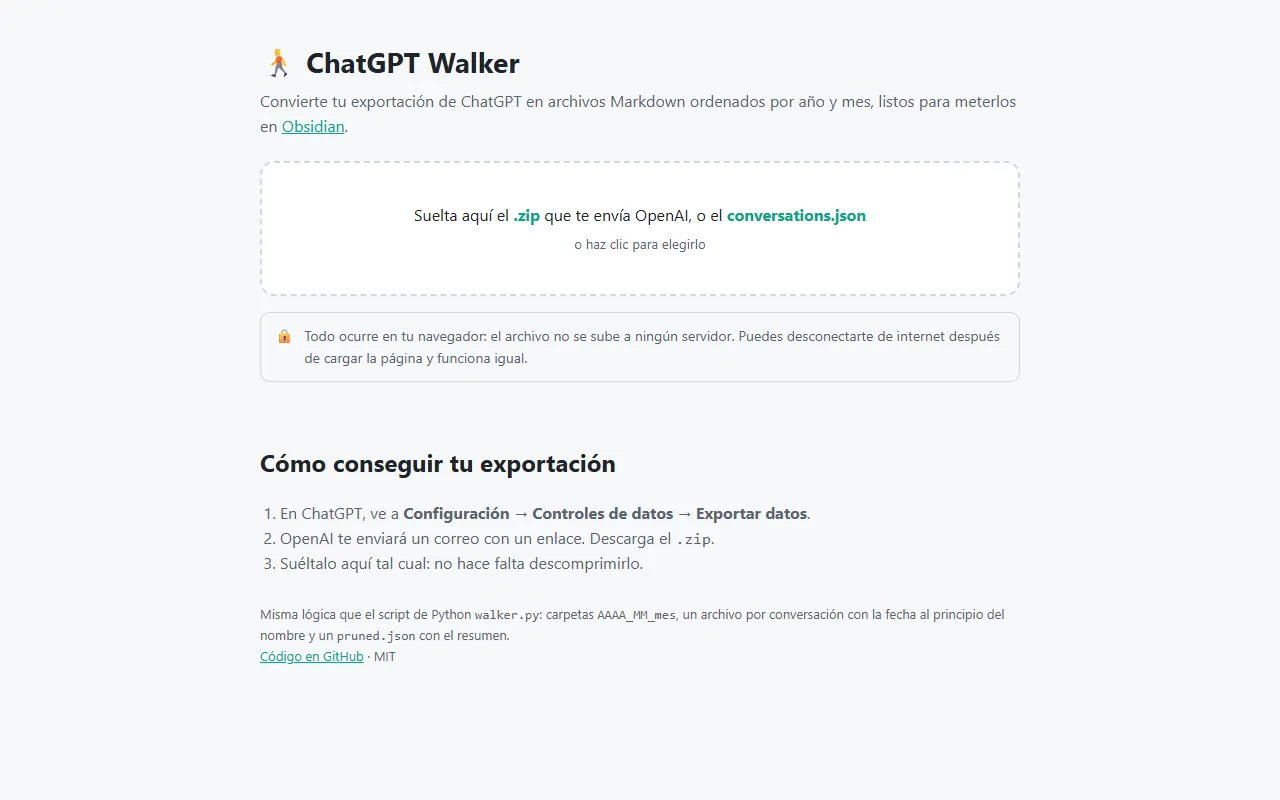
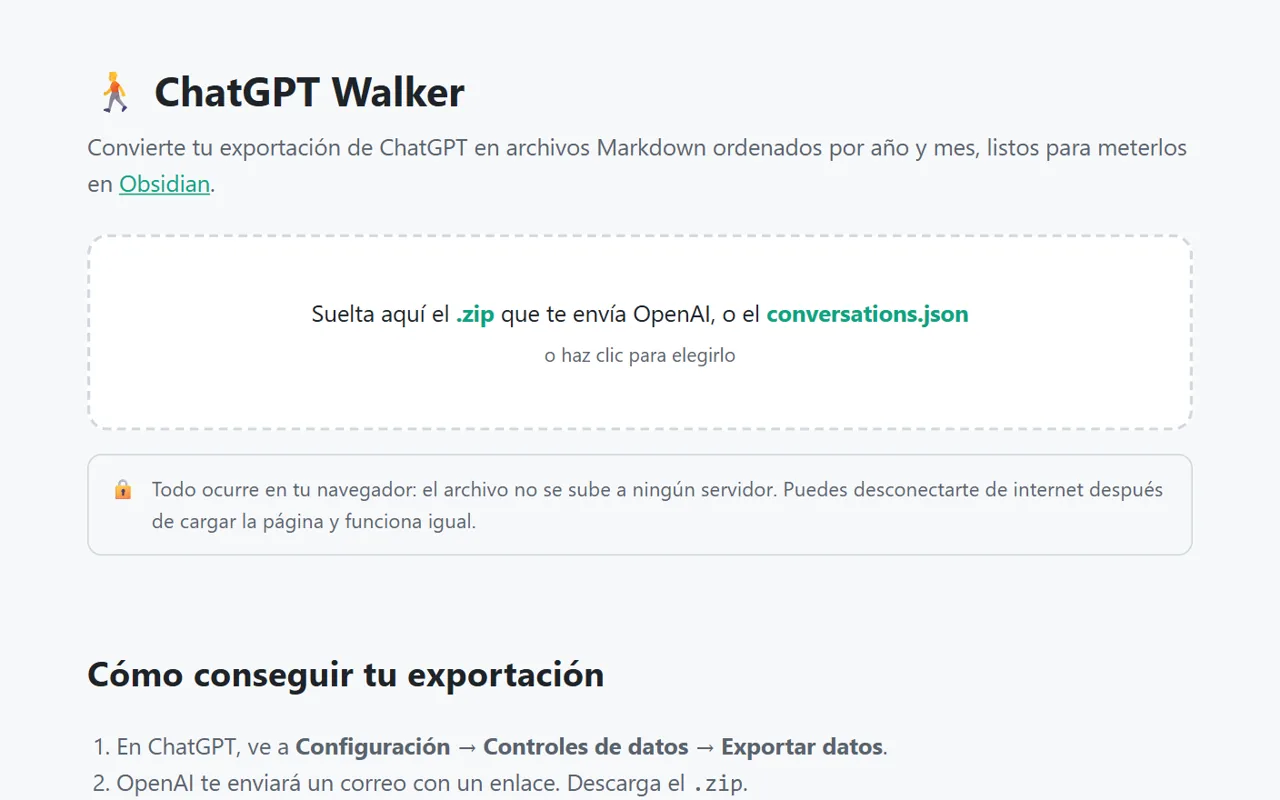
Rediseña la portada y unifica las capturas
Claude-Session: https://claude.ai/code/session_01QCYTMinSPF5p7tBa2mUJnL

diff --git a/src/style.css b/src/style.css
@@ -10,11 +10,10 @@ a:hover { color: var(--accent); }
 :focus-visible { outline: 3px solid var(--accent); outline-offset: 2px; }
 .skip { position: absolute; left: -999px; } .skip:focus { left: 12px; top: 12px; background: var(--panel); padding: 8px 12px; z-index: 9; }
 h1, h2, h3 { line-height: 1.2; letter-spacing: -.01em; margin: 0; }
-.top { border-bottom: 1px solid var(--line); background: var(--panel); }
-.top .wrap { display: flex; gap: 20px; align-items: center; padding-block: 24px; }
-.top img { border-radius: 50%; }
-.top div div { flex: 1; } .top h1 { font-size: 34px; letter-spacing: -.03em; } .top p { margin: 4px 0 0; color: var(--soft); max-width: 60ch; }
-nav { display: flex; gap: 18px; font-weight: 600; }
+.top { background: #000; color: #fff; text-align: center; }
+.top .wrap { padding-block: 18px 30px; } .top h1 img { display: block; width: min(860px, 100%); height: auto; margin: auto; } .top p { margin: 0; font-size: 19px; color: #d6d2dc; } .top .made { margin-top: 6px; font-size: 14px; color: #96909f; }
+nav { display: flex; justify-content: flex-end; flex-wrap: wrap; gap: 6px 22px; font-weight: 600; } nav a { text-decoration: none; padding: 4px 0; } .top a:hover { color: #ff9a6b; }
+.chips { display: flex; flex-wrap: wrap; gap: 8px; margin: 4px 0 16px; } .chips button { border: 1px solid var(--line); border-radius: 999px; background: var(--panel); padding: 7px 15px; cursor: pointer; } .chips span { color: var(--soft); font-variant-numeric: tabular-nums; } .chips button:hover { border-color: var(--accent); } .chips [aria-pressed=true] { background: var(--ink); border-color: var(--ink); color: var(--bg); } .chips [aria-pressed=true] span { color: inherit; opacity: .75; }
 .sum { display: grid; grid-template-columns: repeat(5, auto) minmax(280px, 1.6fr); gap: 24px; margin: 28px 0; }
 .sum dt { font-size: 14px; color: var(--soft); } .sum dd { margin: 2px 0 0; font-size: 28px; font-weight: 650; font-variant-numeric: tabular-nums; white-space: nowrap; }
 .sum .wide dd { font-size: 14px; font-weight: 400; white-space: normal; }
@@ -25,17 +24,17 @@ nav { display: flex; gap: 18px; font-weight: 600; }
 button, select, input { font: inherit; color: inherit; }
 .seg button { border: 0; background: none; padding: 7px 11px; cursor: pointer; } .seg button:focus-visible { outline-offset: -3px; }
 .seg [aria-pressed=true] { background: var(--ink); color: var(--bg); }
-select, input { background: var(--panel); border: 1px solid var(--line); border-radius: 7px; padding: 6px 10px; } input { width: 110px; } #type, #stage { width: 112px; } #order { width: 172px; }
+select, input { background: var(--panel); border: 1px solid var(--line); border-radius: 7px; padding: 6px 10px; } input { width: 150px; } #stage { width: 150px; } #order { width: 172px; }
 #count { margin-left: auto; color: var(--soft); }
 .view { padding: 24px 0 56px; } .view > h2 { font-size: 24px; margin-bottom: 16px; }
-.board { display: grid; grid-template-columns: repeat(auto-fill, minmax(270px, 1fr)); gap: 18px; }
+.board { display: grid; grid-template-columns: repeat(auto-fill, minmax(min(100%, 290px), 1fr)); gap: 18px; }
 .card time { display: block; padding-top: 10px; font-size: 13px; color: var(--soft); } .card time::first-letter { text-transform: uppercase; }
-.cover { display: flex; flex-direction: column; justify-content: center; gap: 2px; margin: 0 -14px; padding: 0 20px; aspect-ratio: 16 / 10; background: var(--line); color: var(--ink); font-size: 24px; font-weight: 650; line-height: 1.2; letter-spacing: -.02em; }
 .card { display: flex; flex-direction: column; background: var(--panel); border: 1px solid var(--line); border-radius: 8px; overflow: hidden; position: relative; padding: 0 14px 12px; transition: border-color .15s; }
 .card:hover { border-color: var(--accent); }
 .card .open { text-decoration: none; } .card .open::after { content: ""; position: absolute; inset: 0; } .card .open:focus-visible { outline: none; } .card:focus-within { outline: 3px solid var(--accent); }
-.card img { display: block; width: calc(100% + 28px); height: auto; margin: 0 -14px; aspect-ratio: 16 / 10; object-fit: cover; max-width: none; }
+.card img { display: block; width: calc(100% + 28px); height: auto; margin: 0 -14px; aspect-ratio: 16 / 9; object-fit: cover; max-width: none; background: var(--line); }
 .card h3 { font-size: 18px; padding-top: 2px; } .card p { margin: 4px 0; font-size: 14.5px; color: var(--soft); flex: 1; }
+.card .go { position: relative; z-index: 1; margin-left: auto; font-weight: 650; color: var(--accent); text-decoration: none; } .card .go:hover { text-decoration: underline; }
 .card .meta { display: flex; flex-wrap: wrap; gap: 2px 14px; font-size: 13px; flex: none; }
 .scroll { overflow-x: auto; background: var(--panel); border: 1px solid var(--line); border-radius: 8px; }
 table { border-collapse: collapse; width: 100%; font-size: 15px; } th, td { text-align: left; padding: 11px 14px; border-bottom: 1px solid var(--line); white-space: nowrap; } tbody tr:last-child > * { border: 0; }
@@ -46,15 +45,15 @@ thead button { border: 0; background: none; padding: 0; font-weight: 650; cursor
 .todo li { position: relative; padding: 5px 0 5px 28px; } .todo li::before { content: ""; position: absolute; left: 2px; top: 10px; width: 13px; height: 13px; border: 2px solid var(--soft); border-radius: 3px; }
 .todo.big li { padding-block: 10px; border-bottom: 1px solid var(--line); } .todo.big li::before { top: 15px; } .todo.big a { color: var(--soft); margin-left: 8px; }
 .log li { display: grid; grid-template-columns: 110px 1fr; gap: 12px; padding: 5px 0; font-size: 15px; } .log.big li { grid-template-columns: 120px 210px 1fr; padding: 10px 0; border-bottom: 1px solid var(--line); } .log time { color: var(--soft); } .log .msg { text-decoration: none; }
-dialog { width: min(1080px, calc(100% - 24px)); max-height: calc(100dvh - 32px); padding: 0; border: 1px solid var(--line); border-radius: 10px; background: var(--panel); color: var(--ink); } dialog::backdrop { background: rgb(10 9 14 / .6); }
+dialog { width: min(1080px, calc(100% - 24px)); max-height: calc(100dvh - 32px); padding: 0; border: 1px solid var(--line); border-radius: 10px; background: var(--panel); color: var(--ink); } dialog:focus-visible { outline: none; } dialog::backdrop { background: rgb(10 9 14 / .6); }
 .sheet { padding: 24px; } .sheet header { display: flex; justify-content: space-between; gap: 20px; align-items: start; } .sheet h2 { font-size: 30px; } .sheet header p { margin: 6px 0 0; font-size: 18px; color: var(--soft); }
 .close, .btn { display: inline-block; border: 1px solid var(--ink); border-radius: 7px; padding: 8px 16px; background: none; cursor: pointer; text-decoration: none; } .btn { background: var(--ink); color: var(--bg); } .btn:hover { color: var(--bg); background: var(--accent); border-color: var(--accent); } .btn.alt { background: none; color: inherit; } .btn.alt:hover { color: var(--accent); }
 .act { display: flex; flex-wrap: wrap; gap: 10px; margin: 18px 0; }
-.shots { display: grid; gap: 10px; margin-top: 20px; } .shots img { width: 100%; height: 100%; display: block; object-fit: cover; border-radius: 6px; aspect-ratio: 16 / 10; background: var(--line); } .n1 img { aspect-ratio: 16 / 8; } .n2 { grid-template-columns: 1fr 1fr; } .n3 { grid-template-columns: 2fr 1fr; } .n3 a:first-child { grid-row: span 2; }
+.shots { display: grid; gap: 10px; margin-top: 20px; } .shots img { width: 100%; height: 100%; display: block; object-fit: cover; border-radius: 6px; aspect-ratio: 16 / 9; background: var(--line); } .n1 { max-width: 760px; } .n2 { grid-template-columns: 1fr 1fr; } .n3 { grid-template-columns: 2fr 1fr; } .n3 a:first-child { grid-row: span 2; }
 .two { display: grid; grid-template-columns: 1.2fr 1fr; gap: 36px; } .sheet h3 { font-size: 18px; margin: 20px 0 6px; } .sheet ul:not(.todo) { margin: 0; padding-left: 20px; } .two p { margin: 0; max-width: 60ch; }
 dl:not(.sum) { display: grid; grid-template-columns: auto 1fr; gap: 6px 18px; margin: 0; } .sheet dt { color: var(--soft); } .sheet dd { margin: 0; }
 #empty { padding: 20px 0 60px; }
 footer { padding-block: 24px 48px; border-top: 1px solid var(--line); text-align: center; color: var(--soft); font-size: 15px; } footer p { margin: 4px 0; } footer img { max-width: 100%; }
 @media (max-width: 1100px) { .sum { grid-template-columns: repeat(3, 1fr); } .sum .wide { grid-column: 1 / -1; } }
-@media (max-width: 700px) { .top .wrap { flex-wrap: wrap; } .top .wrap div { flex: 1 0 70%; } .sum { grid-template-columns: 1fr 1fr; gap: 16px; } .tools { position: static; } .seg { width: 100%; } .seg button { flex: 1; padding-inline: 4px; } #count { margin: 0; } .two, .shots.n2, .shots.n3 { grid-template-columns: 1fr; } .log.big li, .log li { grid-template-columns: 1fr; gap: 0; } .sheet { padding: 16px; } }
+@media (max-width: 700px) { nav { justify-content: center; } .chips { flex-wrap: nowrap; overflow-x: auto; margin-inline: -20px; padding: 2px 20px; } .chips button { flex: none; } .tools label { flex: 1 1 40%; } .tools select, .tools input { width: 100% !important; } .sum { grid-template-columns: 1fr 1fr; gap: 16px; } .tools { position: static; } .seg { width: 100%; } .seg button { flex: 1; padding-inline: 4px; } #count { margin: 0; } .two, .shots.n2, .shots.n3 { grid-template-columns: 1fr; } .log.big li, .log li { grid-template-columns: 1fr; gap: 0; } .sheet { padding: 16px; } }
 @media (prefers-reduced-motion: reduce) { * { transition: none !important; } }

diff --git a/src/app.js b/src/app.js
@@ -1,14 +1,20 @@
 const $ = s => document.querySelector(s), $$ = s => [...document.querySelectorAll(s)];
-const type = $('#type'), stage = $('#stage'), order = $('#order'), q = $('#q');
+let kind = '';
+const stage = $('#stage'), order = $('#order'), q = $('#q');
 let view = 'board';
 function filter() {
-  const t = type.value, s = q.value.trim().toLowerCase();
+  const t = kind, s = q.value.trim().toLowerCase();
   for (const el of $$('[data-q]')) el.hidden = (t && el.dataset.type !== t) || (stage.value && el.dataset.stage !== stage.value) || !el.dataset.q.includes(s);
   const n = $$(`#${view} [data-q]:not([hidden])`).length;
   $('#count').textContent = `${n} ${view === 'todo' ? 'pendientes' : view === 'log' ? 'cambios' : 'proyectos'}`;
   $('#empty').hidden = n > 0;
 }
-type.onchange = stage.onchange = q.oninput = filter;
+for (const b of $$('[data-kind]')) b.onclick = () => {
+  kind = b.dataset.kind;
+  for (const x of $$('[data-kind]')) x.setAttribute('aria-pressed', x === b);
+  filter();
+};
+stage.onchange = q.oninput = filter;
 // El HTML llega del más nuevo al más antiguo; invertirlo entero mantiene los empates coherentes.
 const lists = ['#board', '#table tbody', '#todo ul', '#log ol'].map(s => [$(s), [...$(s).children]]);
 order.onchange = () => {

diff --git a/README.md b/README.md
@@ -1,14 +1,15 @@
 # Portfolio de virtuanista
 
-Web con los proyectos públicos de [virtuanista](https://github.com/virtuanista) (Pepe Alvar): **[virtuanista.github.io](https://virtuanista.github.io/)**.
+Web con los proyectos públicos de [virtuanista](https://github.com/virtuanista): **[virtuanista.github.io](https://virtuanista.github.io/)**.
 
-![Panel](img/panel.png)
+![virtuanista](img/perfil/portada.png)
 
-Panel técnico con tablero, tabla, pendientes, actividad y una ficha por proyecto. Sin dependencias.
+Tablero con filtros por tipo, tabla, pendientes, actividad y una ficha por proyecto. Sin dependencias.
 
 - **Contenido:** `src/content.mjs` (concepto, tecnología, límites y capturas).
 - **Datos:** `node scripts/build.mjs --sync` lee GitHub (fechas, commits, lenguajes, CI y versiones) y genera `dist/`.
-- **Perfil:** el mismo comando genera `dist-profile/README.md`.
+- **Perfil:** el mismo comando genera `dist-profile/README.md` y las cifras en SVG (claro y oscuro).
+- **Portadas:** `img/t/<id>.webp`, 800×450, una por proyecto.
 - **Publicación:** GitHub Actions, en cada push y los lunes, sin crear commits.
 
 ## Licencia
